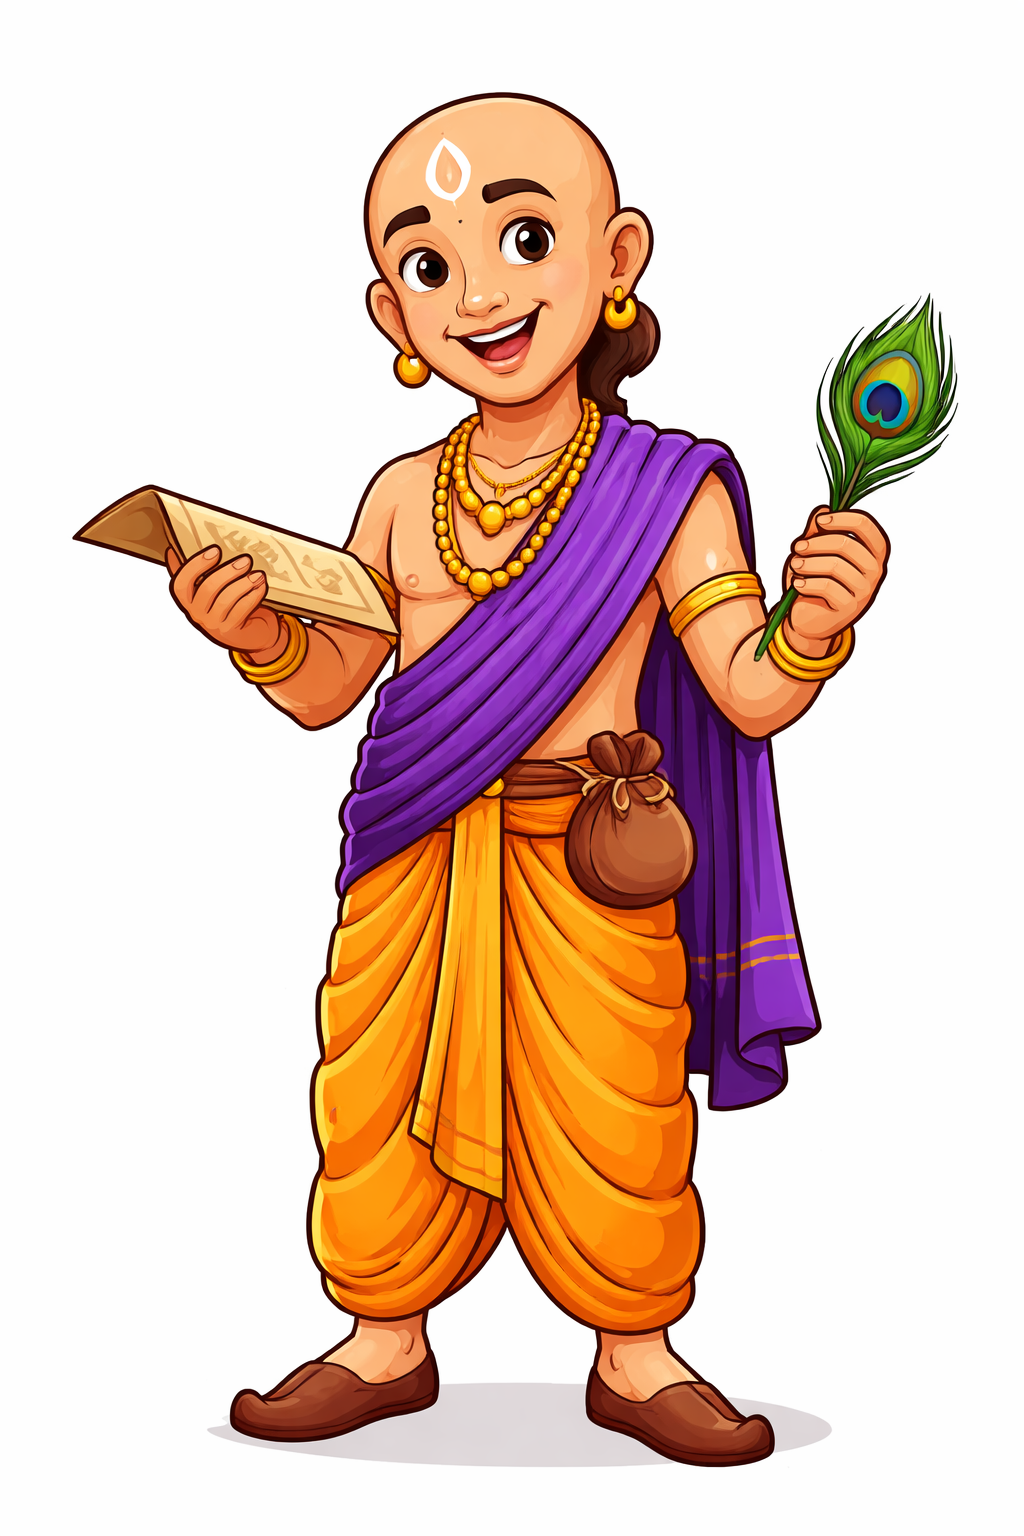
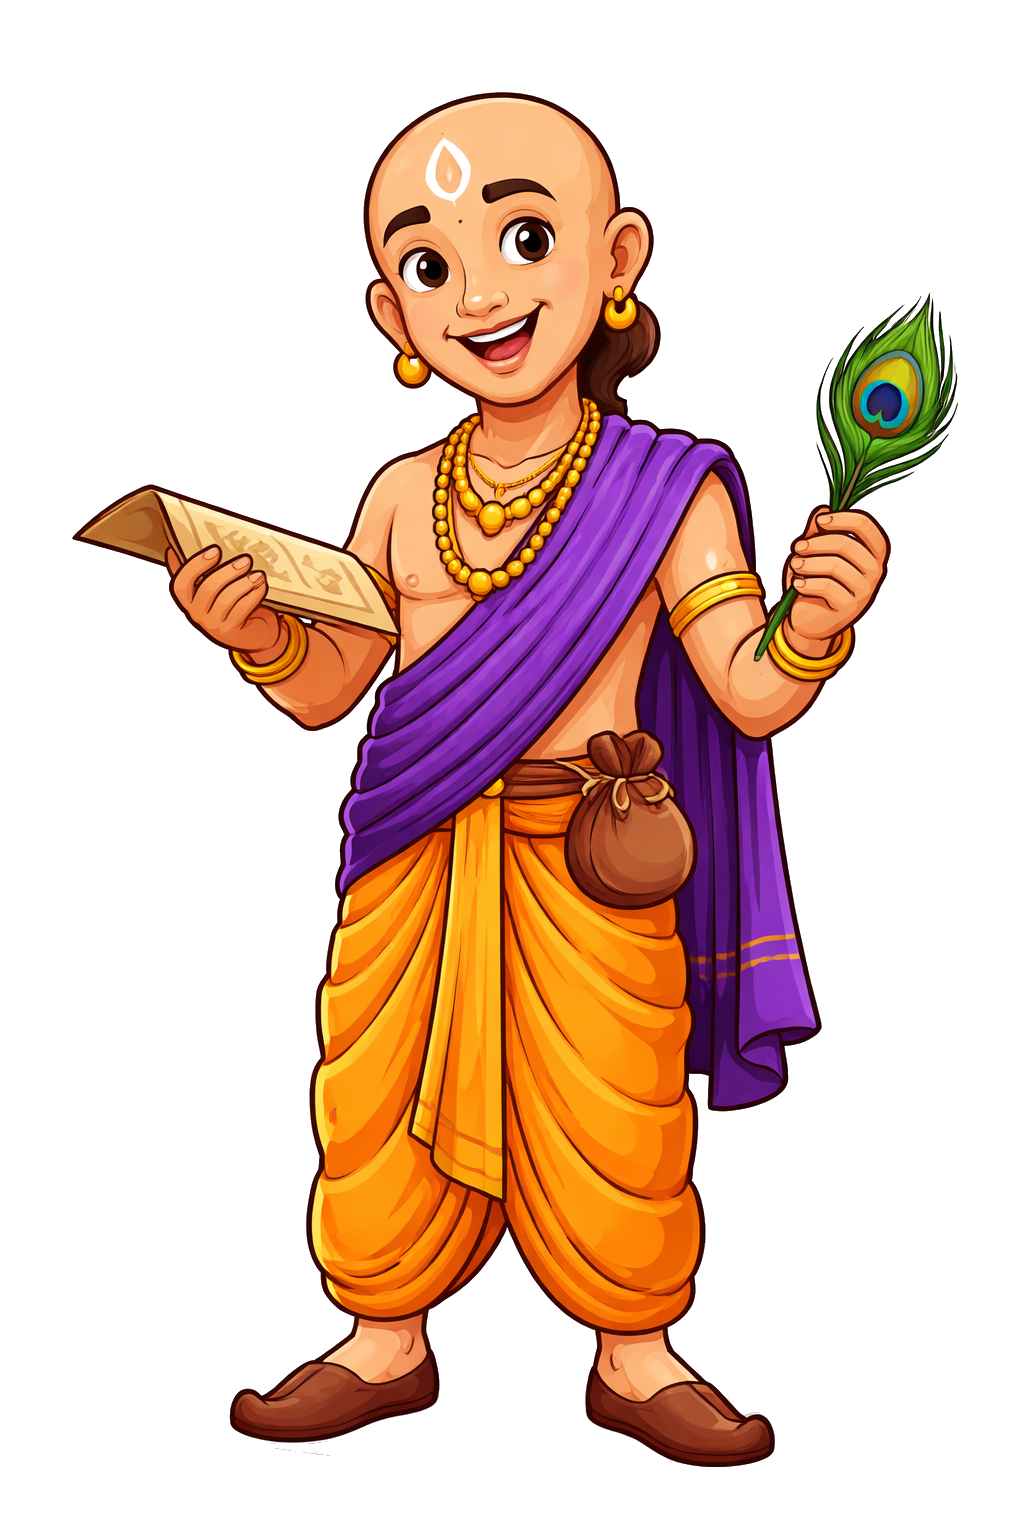
fixed tenali image & fixed game MVP

Changed region(s): [[0.25, 0.875, 0.6562, 0.9688], [0.7188, 0.9062, 0.8125, 0.9688], [0.2188, 0.9062, 0.25, 0.9375]]

diff --git a/client/src/App.jsx b/client/src/App.jsx
@@ -36195,27 +36195,6 @@ function Home({ onSelect }) {
   const matchFilter = (a) => a.name.toLowerCase().includes(search.toLowerCase()) || a.subtitle.toLowerCase().includes(search.toLowerCase())
   const apps = isSearching ? regularApps.filter(matchFilter) : regularApps
 
-  // Grid layout tracking (for responsive display)
-  const gridRef = useRef(null)
-  // Number of columns currently displayed (responsive)
-  const [cols, setCols] = useState(4)
-
-  // Update grid dimensions on resize (for responsive grid calculation)
-  useEffect(() => {
-    const updateCols = () => {
-      if (!gridRef.current) return
-      const style = window.getComputedStyle(gridRef.current)
-      const columns = style.getPropertyValue('grid-template-columns').split(' ').length
-      setCols(columns)
-    }
-    updateCols()
-    window.addEventListener('resize', updateCols)
-    return () => window.removeEventListener('resize', updateCols)
-  }, [])
-
-  // Calculate number of rows for display (for grid dimension label at bottom)
-  const rows = Math.ceil(apps.length / (cols || 1))
-
   return (
     <>
       <div style={{ position: 'relative' }}>
@@ -36265,7 +36244,7 @@ function Home({ onSelect }) {
           onChange={e => setSearch(e.target.value)}
         />
       </div>
-      <div className="menu-grid" ref={gridRef}>
+      <div className="menu-grid">
         {apps.map((app) => (
           <button key={app.key} className={`menu-card ${app.color}`} onClick={() => onSelect(app.key)}>
             <span className="menu-title">{app.name}</span>
@@ -36273,7 +36252,6 @@ function Home({ onSelect }) {
           </button>
         ))}
       </div>
-      <div className="grid-dimension">{rows} × {cols}</div>
     </>
   )
 }